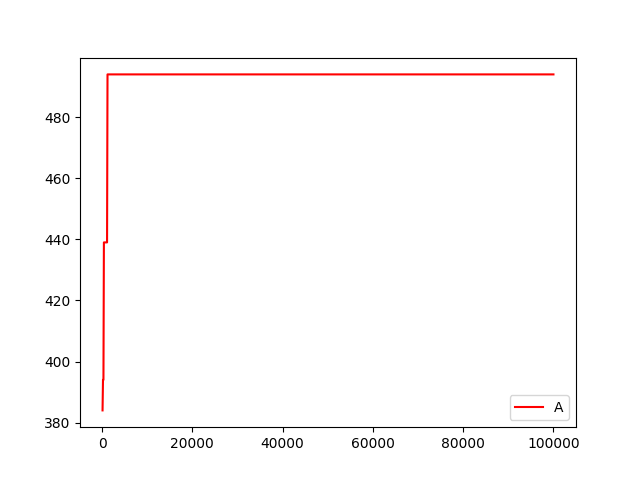
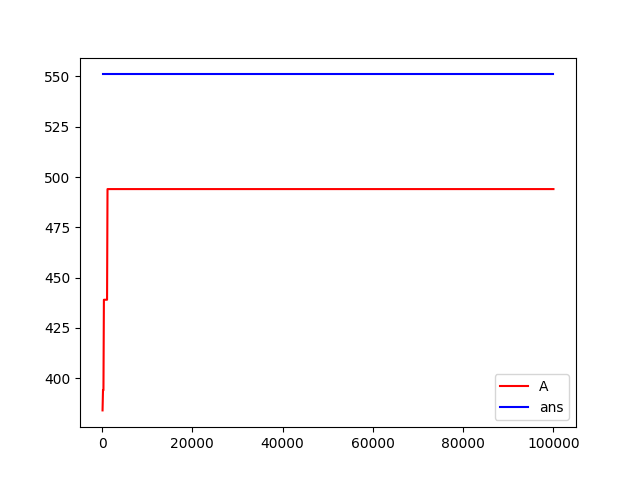
update 01knapsack test fig

diff --git a/Slime_01knapsack/stat.py b/Slime_01knapsack/stat.py
@@ -2,13 +2,15 @@ import matplotlib.pyplot as plt
 import sys
 
 def main():
-	for num in range(1, 9):
+	for num in range(5, 9):
 		print(f"processing log{num}...")
 		f = open(f"log{num}", "r")
+		ansf = open(f"ans{(num-4)}", "r")
 		
 		S = []
 		val = []
 		X = []
+		ans = int(ansf.readline())
 		while True:
 			l = [*f.readline().split()]
 			if len(l) == 1:
@@ -20,9 +22,10 @@ def main():
 				val.append(int(l[1]))
 			else:
 				break
-
+		ans = [ans] * len(X)
 		plt.figure()
 		plt.plot(X, val, label = 'A', color = 'red')
+		plt.plot(X, ans, label = 'ans', color = 'blue')
 		plt.legend(loc = 'best')
 		plt.savefig(f"log{num}.fig.png")
 		print("saved the fig.\n")
